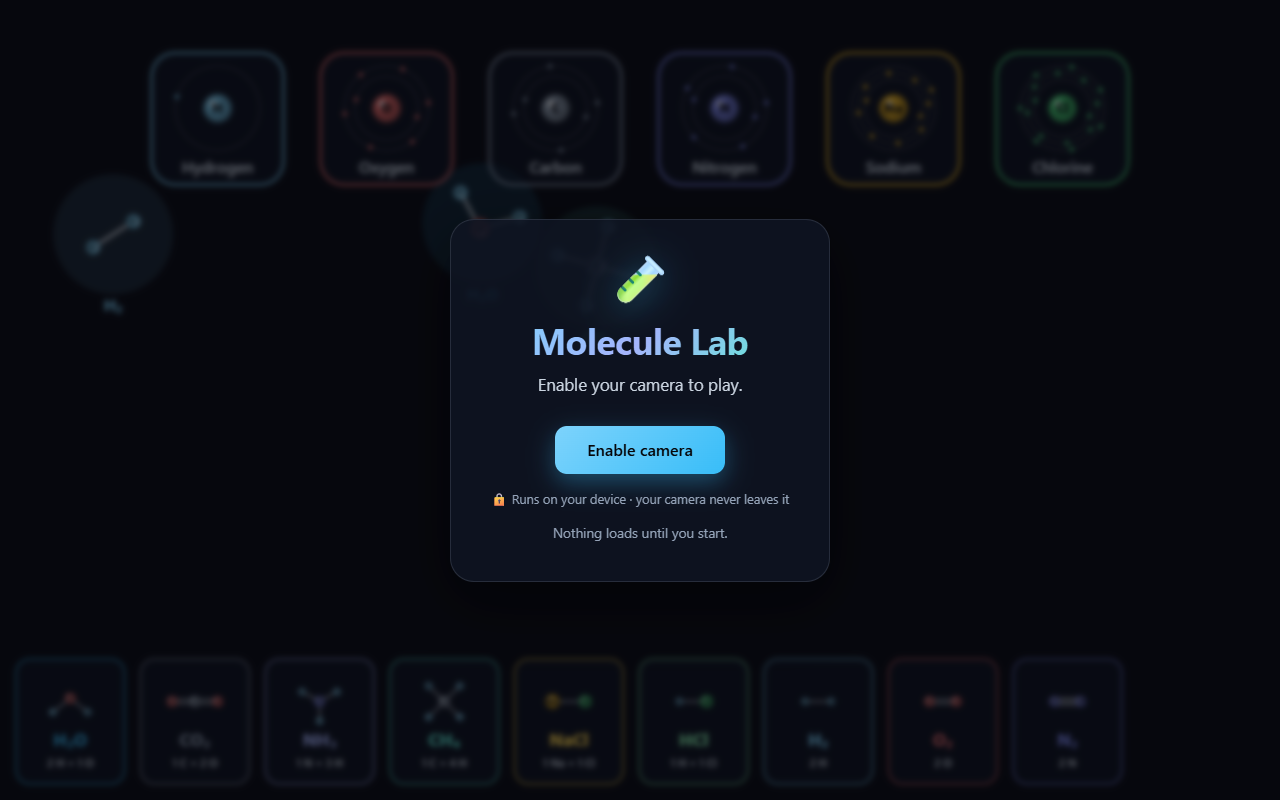
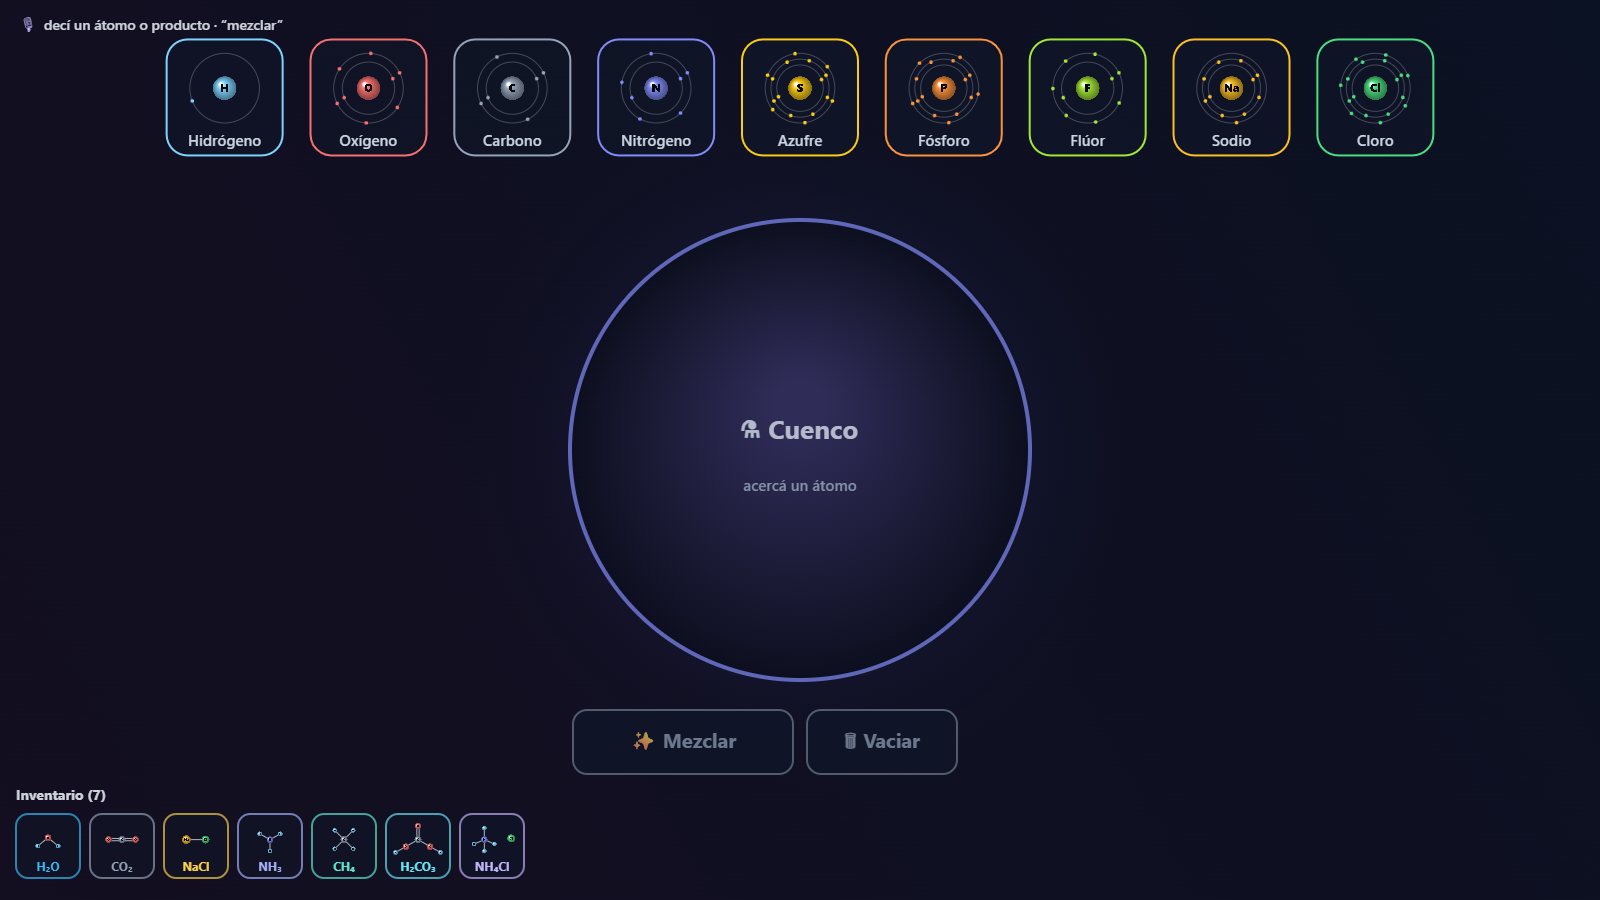
docs: actualizar README, overlay e imagen a la dinamica del cuenco
Traduce el overlay e index.html al espanol (lang="es"), reescribe el README
a la mecanica del cuenco de alquimia, corrige la descripcion de package.json
(decia WebGPU, que no se usa) y regenera docs/preview.png con la escena nueva.

diff --git a/index.html b/index.html
@@ -1,5 +1,5 @@
 <!doctype html>
-<html lang="en">
+<html lang="es">
   <head>
     <meta charset="UTF-8" />
     <link rel="icon" type="image/svg+xml" href="/favicon.svg" />
@@ -8,7 +8,7 @@
     <link rel="preconnect" href="https://storage.googleapis.com" crossorigin />
     <link rel="dns-prefetch" href="https://cdn.jsdelivr.net" />
     <link rel="dns-prefetch" href="https://storage.googleapis.com" />
-    <title>Molecule Lab — build molecules with your hands</title>
+    <title>Cuenco de Alquimia — combiná átomos con tus manos y tu voz</title>
   </head>
   <body>
     <canvas id="stage"></canvas>
@@ -16,12 +16,12 @@
 
     <div id="overlay">
       <div class="card">
-        <div class="logo">🧪</div>
-        <h1>Molecule&nbsp;Lab</h1>
-        <p class="lead">Enable your camera to play.</p>
-        <button id="start" type="button">Enable camera</button>
-        <p class="privacy">🔒 Runs on your device · your camera never leaves it</p>
-        <p class="hint" id="status">Nothing loads until you start.</p>
+        <div class="logo">⚗️</div>
+        <h1>Cuenco&nbsp;de&nbsp;Alquimia</h1>
+        <p class="lead">Activá la cámara para jugar.</p>
+        <button id="start" type="button">Activar cámara</button>
+        <p class="privacy">🔒 Corre en tu dispositivo · tu cámara nunca sale de acá</p>
+        <p class="hint" id="status">No se carga nada hasta que empieces.</p>
       </div>
     </div>
 

diff --git a/README.md b/README.md
@@ -1,62 +1,82 @@
-# 🧪 Molecule Lab
+# ⚗️ Cuenco de Alquimia
 
-**Build molecules with your hands.** An interactive, in-browser chemistry lab where
-you pick up elements and combine them into real molecules using hand-tracking over
-your webcam — no controllers, no installs.
+**Combiná átomos con tus manos y tu voz.** Un laboratorio de química en el navegador:
+nombrás un átomo y aparece en tu mano, lo tirás a un **cuenco de alquimia** en el centro
+de la escena y, al mezclar, se forma una molécula real. Todo lo que creás queda en un
+**inventario** para volver a usarlo — y las moléculas creadas se pueden combinar entre sí
+para descubrir compuestos más complejos. Seguimiento de manos sobre tu webcam, sin
+controles ni instalaciones.
 
-🔗 **[Play it live →](https://damiansire.github.io/web-ar-molecule-lab/)**
+🔗 **[Jugar online →](https://damiansire.github.io/web-ar-molecule-lab/)**
 
-![Molecule Lab](docs/preview.png)
+![Cuenco de Alquimia](docs/preview.png)
 
-## How to play
+## Cómo se juega
 
-1. Click **Enable camera** and allow access.
-2. **Hover your fingertip** over an element tile to pick it up (hold to grab, hold
-   again to stack more atoms).
-3. **Bring both hands together** while holding elements to combine them into a molecule.
-4. Or just **say an element out loud** — voice naming drops it into a free hand.
+1. Tocá **Activar cámara** y permití el acceso.
+2. **Decí el nombre de un átomo** (“hidrógeno”, “oxígeno”…) y aparece en tu mano. Si no
+   tenés micrófono, podés agarrarlo de la **paleta** de arriba dejando el dedo encima.
+3. **Acercá la mano al cuenco** para soltar adentro lo que sostenés. Repetí para acumular
+   (ej. 2 hidrógeno + 1 oxígeno).
+4. Decí **“mezclar”** (o dejá el dedo en el botón **✨ Mezclar**) y el cuenco resuelve la
+   receta: nace la molécula y entra a tu **inventario**. ¿No reacciona? Ajustá y probá de
+   nuevo, o **🗑 Vaciar** para empezar de cero.
+5. Lo que ya creaste lo **re-invocás** por voz (“agua”) o sacándolo del **estante** de
+   inventario con la mano — y lo podés tirar de vuelta al cuenco como ingrediente.
 
-Two modes, toggled with the on-screen button (hold to switch):
+### El árbol de alquimia
 
-- **🔬 Explore** — free play. Discover molecules and read what each one is.
-- **⚡ Challenge** — molecules fall from the top; assemble them before they reach
-  the bottom to score and build combos.
+Las moléculas creadas son ingredientes de nuevas recetas. Por ejemplo:
 
-## Chemistry
+- **Agua** (2 H + 1 O) + **Dióxido de carbono** (1 C + 2 O) → **Ácido carbónico**
+- **Amoníaco** (1 N + 3 H) + **Ácido clorhídrico** → **Cloruro de amonio**
+- **Dióxido de azufre** + **Agua** → **Ácido sulfuroso**
 
-- **Elements:** H · O · C · N · Na · Cl
-- **Molecules:** H₂O, CO₂, NH₃, CH₄, NaCl, HCl, H₂, O₂, N₂
+Primero craftás los intermedios; después los combinás. El inventario es persistente: tu
+avance sobrevive a recargar la página.
 
-## Privacy
+## Química
 
-Everything runs **on your device**. The camera stream and the hand-tracking model
-execute locally in your browser — the video never leaves your machine. Nothing is
-loaded or contacted until you click *Enable camera*.
+- **Elementos (9):** H · O · C · N · S · P · F · Na · Cl
+- **Moléculas de 1.er nivel:** H₂O, CO₂, NH₃, CH₄, NaCl, HCl, H₂, O₂, N₂, H₂O₂, O₃, CO,
+  NO, SO₂, H₂S, HF, PH₃
+- **Compuestos del árbol de alquimia:** H₂CO₃, NH₄Cl, H₂SO₃, NH₄OH
 
-## Tech
+Las combinaciones se resuelven por **identidad de ingrediente**: un átomo o un producto ya
+creado. Agregar contenido es declarativo — sumar un elemento, una molécula (con su
+geometría) o una receta a `src/chemistry.ts`.
 
-- **Vite + TypeScript**, rendered on a 2D `<canvas>` HUD over the mirrored webcam.
-- **Hand tracking** via [MediaPipe Tasks Vision](https://developers.google.com/mediapipe),
-  running in a Web Worker so inference never blocks the render loop.
-- **Voice input** via the Web Speech API (optional; the game works fully on gestures
-  alone).
-- A strict **Content-Security-Policy** is injected at build time, scoping network
-  access to only the CDNs strictly required by the tracking model.
+## Privacidad
 
-## Development
+Todo corre **en tu dispositivo**. El video de la cámara y el modelo de seguimiento de
+manos se ejecutan localmente en el navegador — la imagen nunca sale de tu máquina. No se
+descarga ni se contacta nada hasta que tocás *Activar cámara*.
+
+## Tecnología
+
+- **Vite + TypeScript**, renderizado en un `<canvas>` 2D sobre la webcam espejada.
+- **Seguimiento de manos** con [MediaPipe Tasks Vision](https://developers.google.com/mediapipe),
+  corriendo en un Web Worker para que la inferencia nunca bloquee el render.
+- **Voz** con la Web Speech API (opcional; el juego funciona completo solo con gestos).
+- **Dominio puro y testeado** (`src/chemistry.ts`): elementos, moléculas, recetas y el
+  resolutor del cuenco (`brew`) viven sin DOM y se cubren con tests unitarios.
+- Una **Content-Security-Policy** estricta inyectada en build acota la red a los CDNs
+  imprescindibles para el modelo.
+
+## Desarrollo
 
 ```bash
 npm install
-npm run dev       # dev server at /web-ar-molecule-lab/
-npm test          # unit tests (chemistry, hands, voice)
-npm run build     # production build → dist/
+npm run dev       # dev server en /web-ar-molecule-lab/
+npm test          # tests unitarios (chemistry, inventory, voice, hands)
+npm run build     # build de producción → dist/
 ```
 
-> Requires a browser with `getUserMedia` (camera) support. A microphone is optional
-> and only used for voice naming.
+> Requiere un navegador con soporte de `getUserMedia` (cámara). El micrófono es opcional y
+> solo se usa para nombrar átomos/productos y decir “mezclar”.
 
-## Deployment
+## Deploy
 
-Pushing to `master` triggers a GitHub Actions workflow that builds the project and
-publishes `dist/` to GitHub Pages. The Vite `base` is set to `/web-ar-molecule-lab/`
-to match the Pages subpath.
+Pushear a `master` dispara un workflow de GitHub Actions que buildea el proyecto y publica
+`dist/` en GitHub Pages. El `base` de Vite es `/web-ar-molecule-lab/` para que coincida con
+el subpath de Pages.